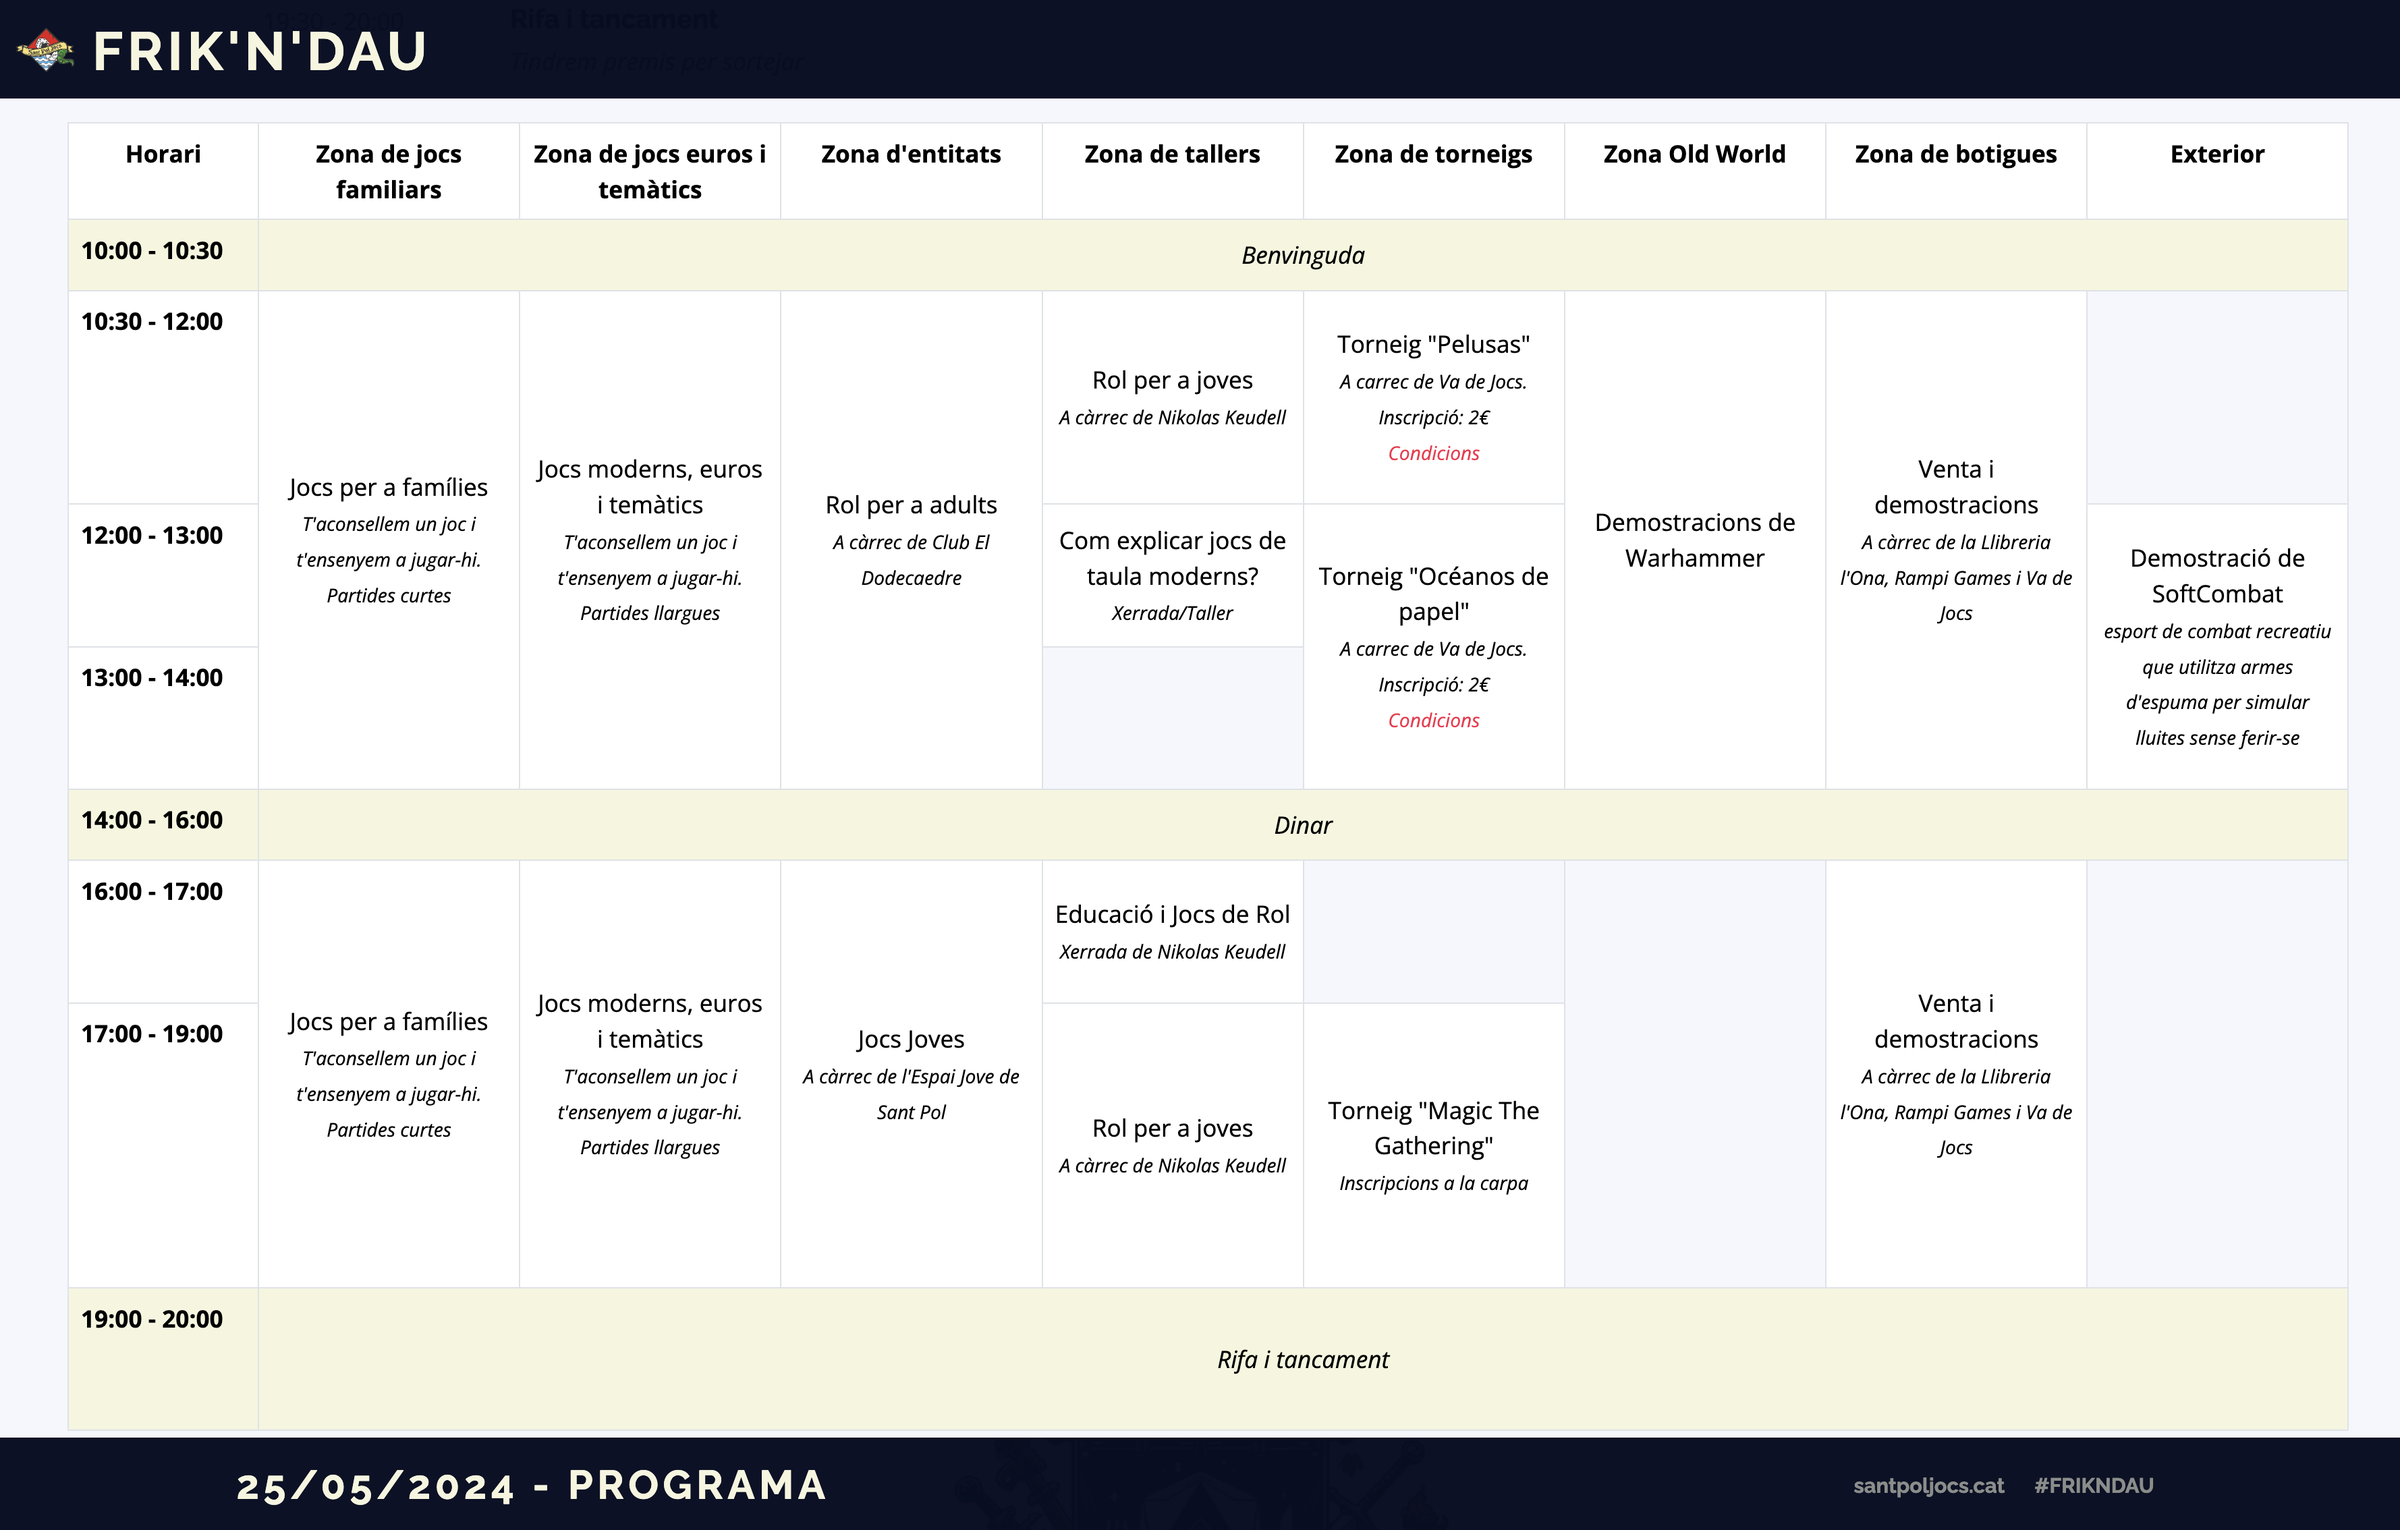
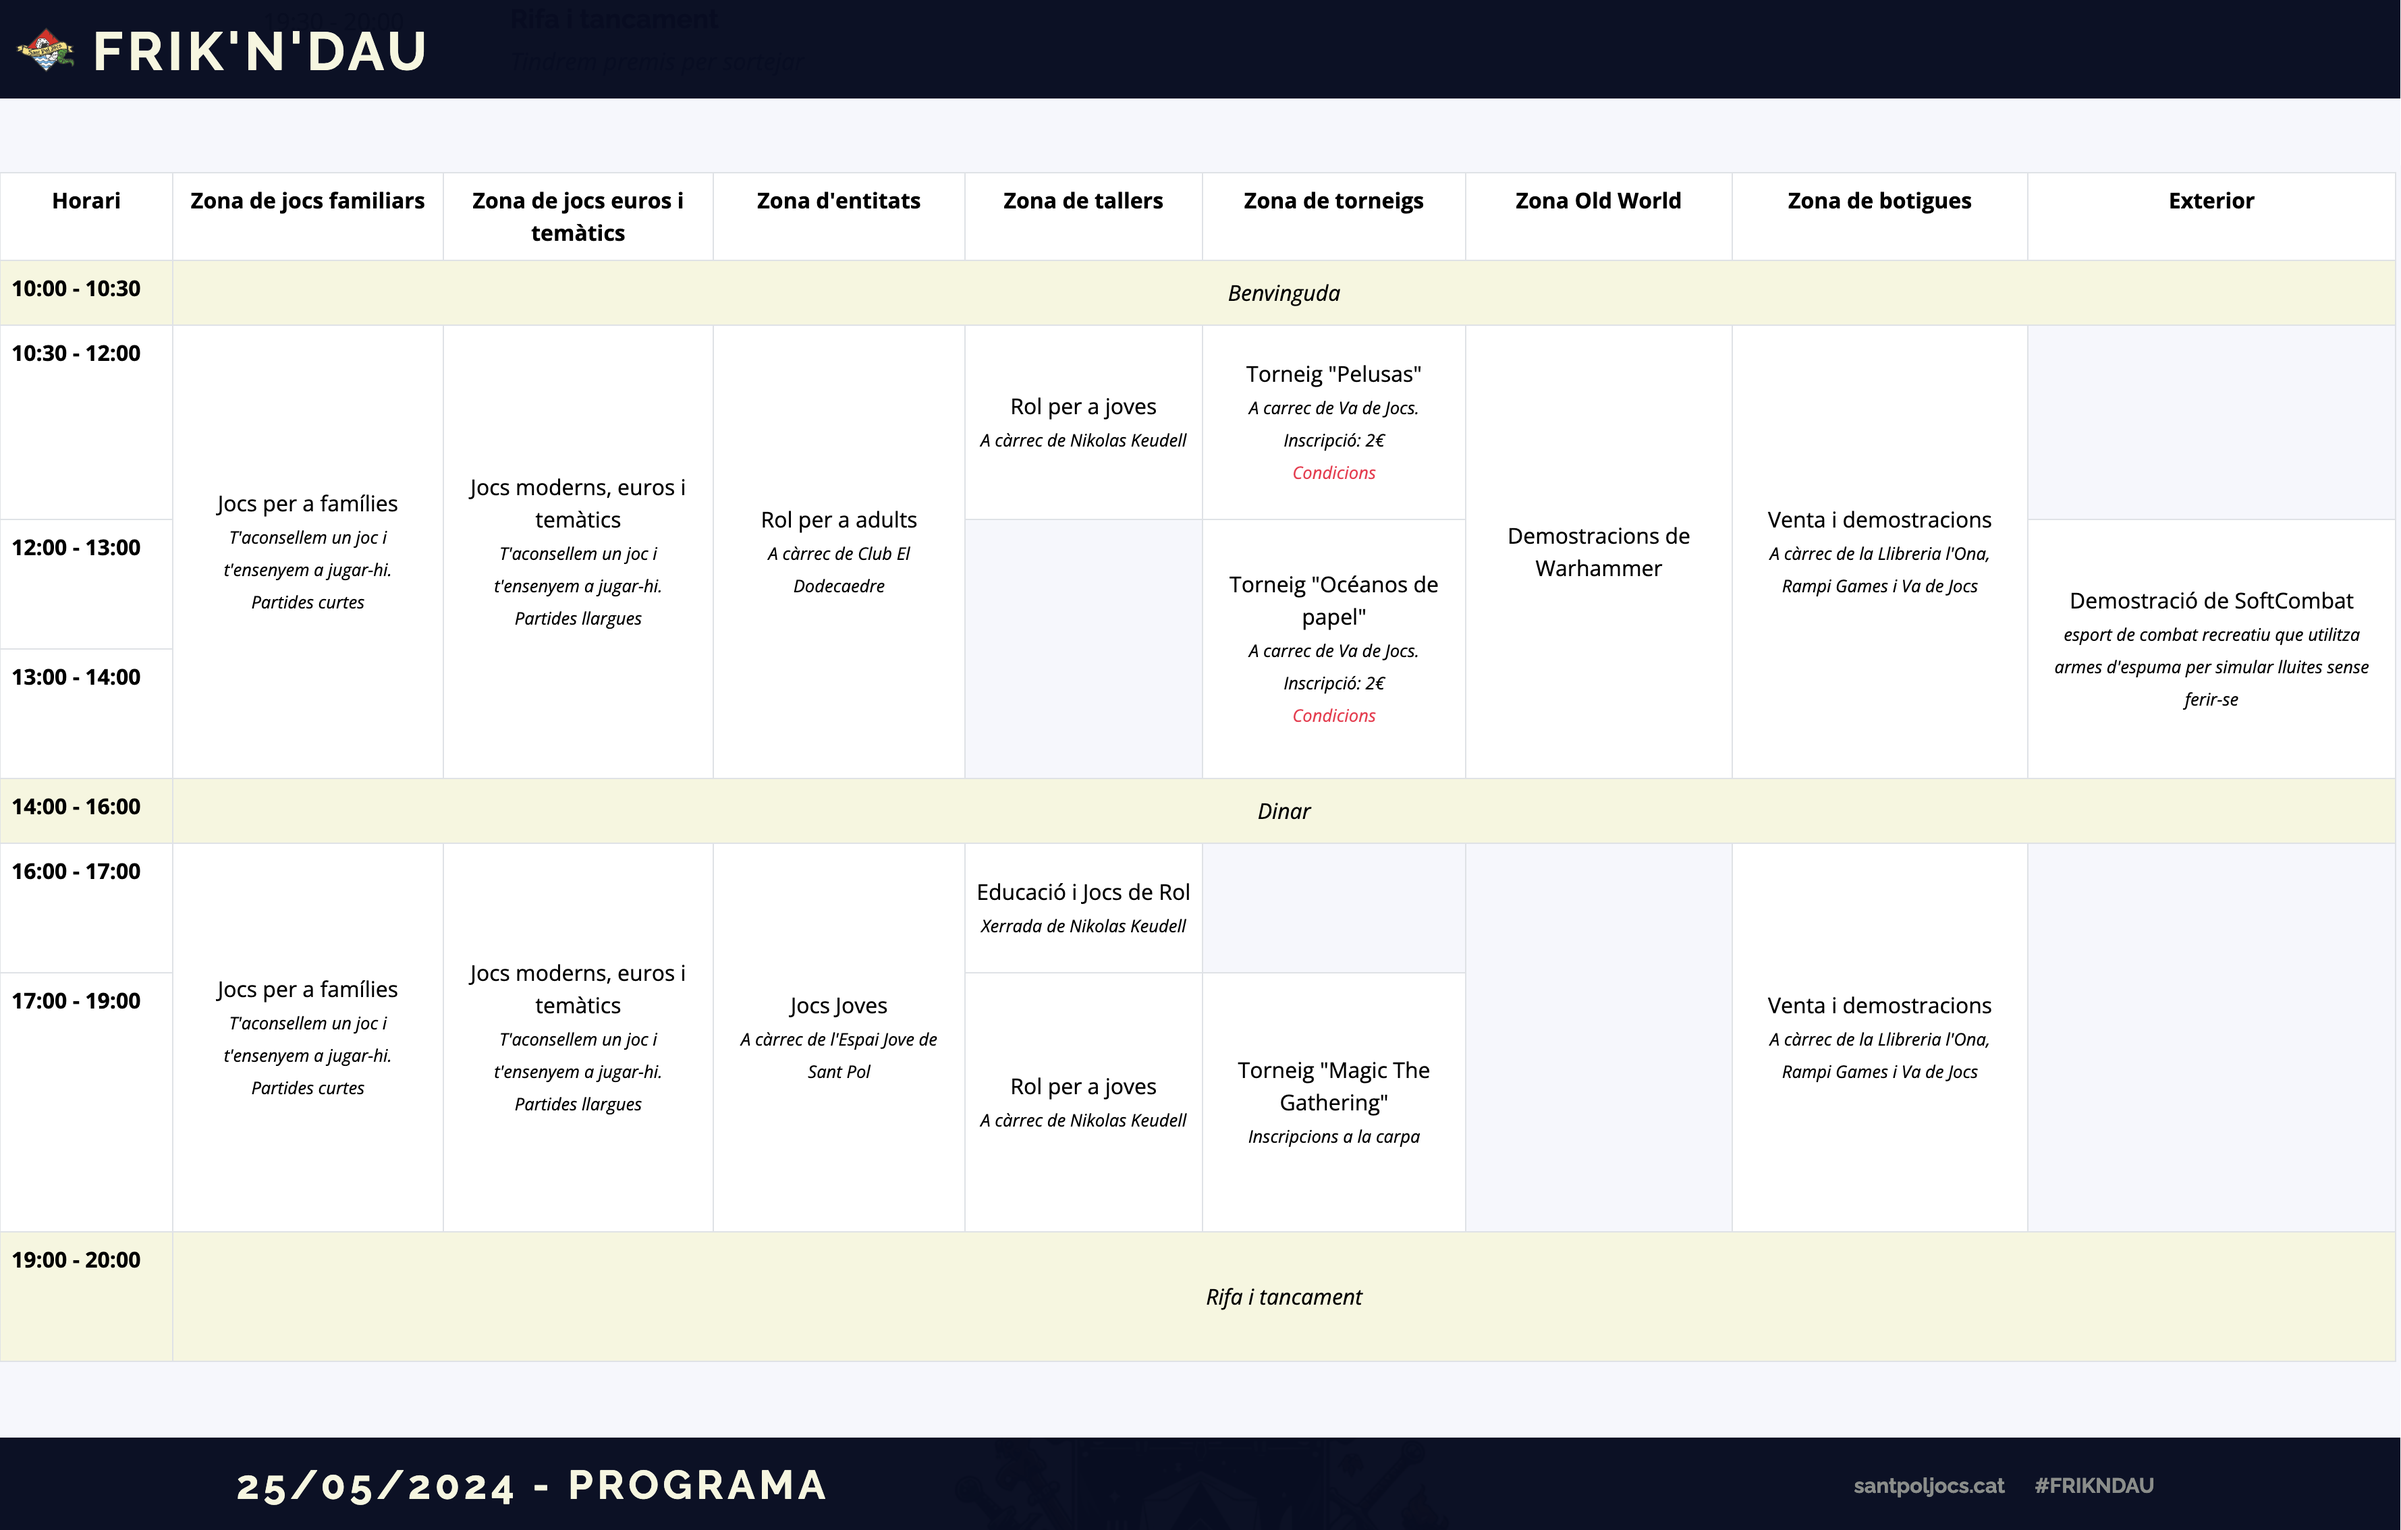
update escaleta

diff --git a/frikndau/programa.html b/frikndau/programa.html
@@ -123,7 +123,7 @@
             <tr></tr>
             <tr>
               <th scope="row" rowspan="2">12:00 - 13:00</th>
-              <td rowspan="2">Com explicar jocs de taula moderns?<br><span>Xerrada/Taller</span></td>
+              <td rowspan="4"></td>
               <td rowspan="4">Torneig "Océanos de papel"<br><span>A carrec de Va de Jocs.</span><br /><span>Inscripció:
                   2&euro;<br /><a href="assets/documents/torneig-oceanos-de-papel.pdf">Condicions</a></span></td>
               <td rowspan="4">Demostració de SoftCombat<br /><span>esport de combat recreatiu que utilitza armes
@@ -132,7 +132,6 @@
             <tr></tr>
             <tr>
               <th scope="row" rowspan="2">13:00 - 14:00</th>
-              <td rowspan="2"></td>
             </tr>
 
             <tr></tr>
